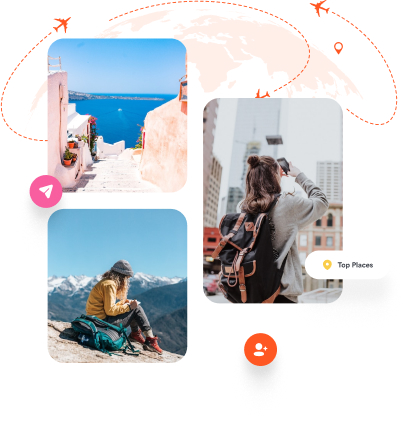
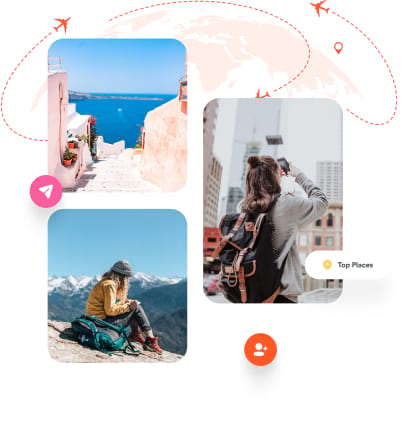
improve lighthouse score

diff --git a/practice2/src/index.html b/practice2/src/index.html
@@ -52,10 +52,10 @@
 			<section class="banner container">
 				<picture>
 					<source
-						srcset="./assets/images/background-images/tablet-desktop-images/banner.jpg"
+						srcset="./assets/images/background-images/tablet-desktop-images/banner.jpg 1.5x"
 						media="(min-width: 468px)"
 					/>
-					<source srcset="./assets/images/background-images/mobile-images/banner.jpg" />
+					<source srcset="./assets/images/background-images/mobile-images/banner.jpg 1.5x" />
 					<img
 						class="banner__image"
 						src="./assets/images/background-images/mobile-images/banner.jpg"
@@ -300,19 +300,19 @@
 					<div class="travel-point__achievements">
 						<div class="travel-point__achievement">
 							<p class="achievement__number">500&#43;</p>
-							<h5 class="achievement__desc">holiday package</h5>
+							<h4 class="achievement__desc">holiday package</h4>
 						</div>
 						<div class="travel-point__achievement">
 							<p class="achievement__number">100</p>
-							<h5 class="achievement__desc">luxury hotel</h5>
+							<h4 class="achievement__desc">luxury hotel</h4>
 						</div>
 						<div class="travel-point__achievement">
 							<p class="achievement__number">7</p>
-							<h5 class="achievement__desc">premium airlines</h5>
+							<h4 class="achievement__desc">premium airlines</h4>
 						</div>
 						<div class="travel-point__achievement">
 							<p class="achievement__number">2k&#43;</p>
-							<h5 class="achievement__desc">happy custumer</h5>
+							<h4 class="achievement__desc">happy custumer</h4>
 						</div>
 					</div>
 				</div>
@@ -486,7 +486,7 @@
 				<div class="footer__brand-info">
 					<a href="javascript:void(0)" class="logo">
 						<img class="header__brand-logo" src="./assets/images/icons/logo.svg" alt="Brand logo" />
-						<h6 class="header__brand-name">Travlog</h6>
+						<p class="header__brand-name">Travlog</p>
 					</a>
 					<p class="brand__desc">
 						Contrary to popular belief, Lorem Ipsum is not simply random text. It has roots in a piece of
@@ -518,7 +518,7 @@
 				</div>
 				<div class="footer__permalinks">
 					<div class="permalinks--company">
-						<h5 class="permalinks--company-info">company</h5>
+						<p class="permalinks--company-info">company</p>
 						<input type="checkbox" id="company-expand" />
 						<label for="company-expand">
 							<img
@@ -537,7 +537,7 @@
 						</div>
 					</div>
 					<div class="permalinks--contact">
-						<h5 class="permalinks--company-info">contact us</h5>
+						<p class="permalinks--company-info">contact us</p>
 						<input type="checkbox" id="contact-expand" />
 						<label for="contact-expand">
 							<img
@@ -557,7 +557,7 @@
 						</div>
 					</div>
 					<div class="permalinks--meet-us">
-						<h5 class="permalinks--company-info">meet us</h5>
+						<p class="permalinks--company-info">meet us</p>
 						<input type="checkbox" id="meet-us-expand" />
 						<label for="meet-us-expand">
 							<img

diff --git a/practice2/src/styles/styles.css b/practice2/src/styles/styles.css
@@ -118,7 +118,6 @@ header {
 	margin: auto;
 	margin-top: 5.2rem;
 	width: 100%;
-	max-width: 39.6rem;
 	min-height: 36.6rem;
 	height: auto;
 }
@@ -777,6 +776,7 @@ header {
 		z-index: 100;
 		display: block;
 		position: absolute;
+
 		top: 5.2rem;
 		width: 40%;
 		height: 100vh;

diff --git a/practice2/src/styles/base.css b/practice2/src/styles/base.css
@@ -33,7 +33,6 @@ body {
 }
 
 .container {
-	max-width: 40rem;
 	max-width: 100%;
 	margin: 0 auto;
 	min-height: auto;
